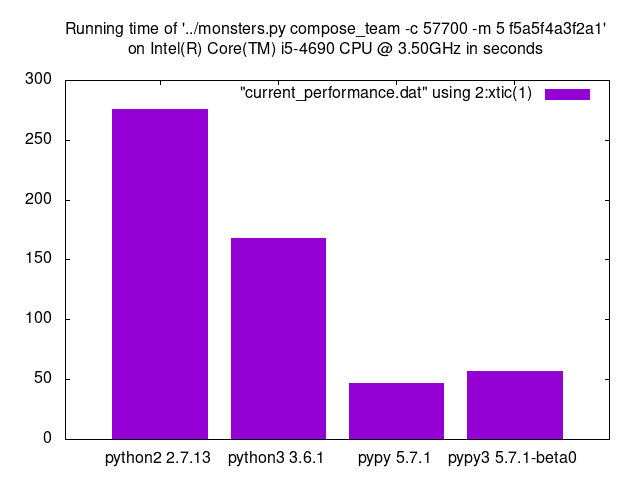
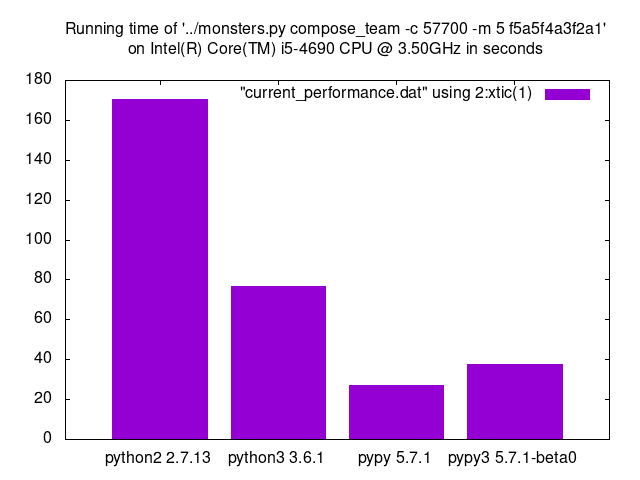
Rewritten monster library as classes
Surprisingly gave quite a boost for running speed.

diff --git a/monsters.py b/monsters.py
@@ -10,12 +10,6 @@ class Monster(object):
     #__slots__ = ['element', 'rank', 'cost', 'power', 'hp']
 
     # TODO: for readonly see https://stackoverflow.com/a/4828492
-    def __init__(self, element, rank, cost, power, hp, readonly=False):
-        self.element = element
-        self.rank = rank
-        self.cost = cost
-        self.power = power
-        self.hp = hp
 
     def __str__(self):
         return self.__repr__()
@@ -43,6 +37,150 @@ class Team(tuple):
 
     # Python2 compatibility
     __nonzero__ = __bool__
+
+
+class AirMonster(Monster):
+    element = 'a'
+
+
+class EarthMonster(Monster):
+    element = 'e'
+
+
+class FireMonster(Monster):
+    element = 'f'
+
+
+class WaterMonster(Monster):
+    element = 'w'
+
+
+class A1(AirMonster):
+    rank = 1
+    cost = 1000
+    power = 8
+    hp = 20
+
+class A2(AirMonster):
+    rank = 2
+    cost = 3900
+    power = 6
+    hp = 48
+
+class A3(AirMonster):
+    rank = 3
+    cost = 8000
+    power = 12
+    hp = 36
+
+class A4(AirMonster):
+    rank = 4
+    cost = 15000
+    power = 26
+    hp = 24
+
+class A5(AirMonster):
+    rank = 5
+    cost = 41000
+    power = 20
+    hp = 60
+
+
+class W1(WaterMonster):
+    rank = 1
+    cost = 1400
+    power = 6
+    hp = 30
+
+class W2(WaterMonster):
+    rank = 2
+    cost = 3900
+    power = 12
+    hp = 24
+
+class W3(WaterMonster):
+    rank = 3
+    cost = 8000
+    power = 24
+    hp = 18
+
+class W4(WaterMonster):
+    rank = 4
+    cost = 18000
+    power = 20
+    hp = 36
+
+class W5(WaterMonster):
+    rank = 5
+    cost = 52000
+    power = 18
+    hp = 78
+
+class E1(EarthMonster):
+    rank = 1
+    cost = 1300
+    power = 4
+    hp = 44
+
+class E2(EarthMonster):
+    rank = 2
+    cost = 2700
+    power = 8
+    hp = 30
+
+class E3(EarthMonster):
+    rank = 3
+    cost = 7500
+    power = 16
+    hp = 26
+
+class E4(EarthMonster):
+    rank = 4
+    cost = 18000
+    power = 10
+    hp = 72
+
+class E5(EarthMonster):
+    rank = 5
+    cost = 54000
+    power = 40
+    hp = 36
+
+class E6(EarthMonster):
+    rank = 6
+    cost = 71000
+    power = 24
+    hp = 72
+
+class F1(FireMonster):
+    rank = 1
+    cost = 1000
+    power = 10
+    hp = 16
+
+class F2(FireMonster):
+    rank = 2
+    cost = 3900
+    power = 16
+    hp = 18
+
+class F3(FireMonster):
+    rank = 3
+    cost = 8000
+    power = 8
+    hp = 54
+
+class F4(FireMonster):
+    rank = 4
+    cost = 23000
+    power = 16
+    hp = 52
+
+class F5(FireMonster):
+    rank = 5
+    cost = 31000
+    power = 24
+    hp = 42
 
 
 def power_against(attacker, victim):
@@ -79,33 +217,6 @@ def battle(team1, team2):
     return (t1, t2)
 
 
-# TODO: try to rewrite as children of monster. Might improve performance
-A1 = Monster('a', 1,  1000,  8, 20)
-A2 = Monster('a', 2,  3900,  6, 48)
-A3 = Monster('a', 3,  8000, 12, 36)
-A4 = Monster('a', 4, 15000, 26, 24)
-A5 = Monster('a', 5, 41000, 20, 60)
-
-W1 = Monster('w', 1,  1400,  6, 30)
-W2 = Monster('w', 2,  3900, 12, 24)
-W3 = Monster('w', 3,  8000, 24, 18)
-W4 = Monster('w', 4, 18000, 20, 36)
-W5 = Monster('w', 5, 52000, 18, 78)
-
-E1 = Monster('e', 1,  1300,  4, 44)
-E2 = Monster('e', 2,  2700,  8, 30)
-E3 = Monster('e', 3,  7500, 16, 26)
-E4 = Monster('e', 4, 18000, 10, 72)
-E5 = Monster('e', 5, 54000, 40, 36)
-E6 = Monster('e', 6, 71000, 24, 72)
-
-F1 = Monster('f', 1,  1000, 10, 16)
-F2 = Monster('f', 2,  3900, 16, 18)
-F3 = Monster('f', 3,  8000,  8, 54)
-F4 = Monster('f', 4, 23000, 16, 52)
-F5 = Monster('f', 5, 31000, 24, 42)
-
-
 def compose_team(enemy, cost_limit, max_length, return_first_winner):
     '''Return shortest team that is able to slain enemy team if exists or None'''
     monsters = [A5, W5, E5, F5,
@@ -116,7 +227,7 @@ def compose_team(enemy, cost_limit, max_length, return_first_winner):
     chosen_indices = [0]
     winning_team = None
     while True:
-        t = Team([monsters[x] for x in chosen_indices])
+        t = Team([monsters[x]() for x in chosen_indices])
         if t.cost() <= cost_limit:
             t1, e1 = battle(t, enemy)
             if t1:
@@ -147,7 +258,7 @@ def compose_team_action(args):
     '''Process "compose_team" action'''
     import re
     enemy_stringlist = re.findall('[AWEF]\d+', args.enemy_team.upper())
-    enemy_team = Team([eval(s) for s in enemy_stringlist])
+    enemy_team = Team([eval(s + '()') for s in enemy_stringlist])
     print('Enemy team:\n%s\n' % str(enemy_team))
     print('Brute forcing team to win.')
     t = compose_team(enemy=enemy_team, cost_limit=args.cost_limit,
